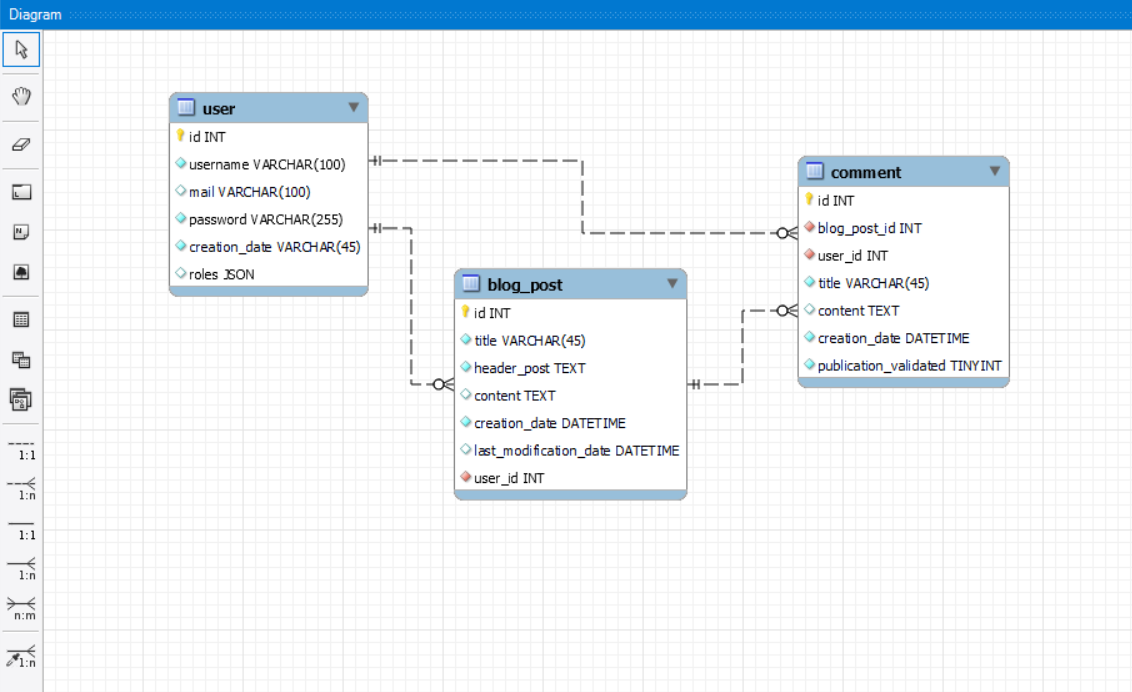
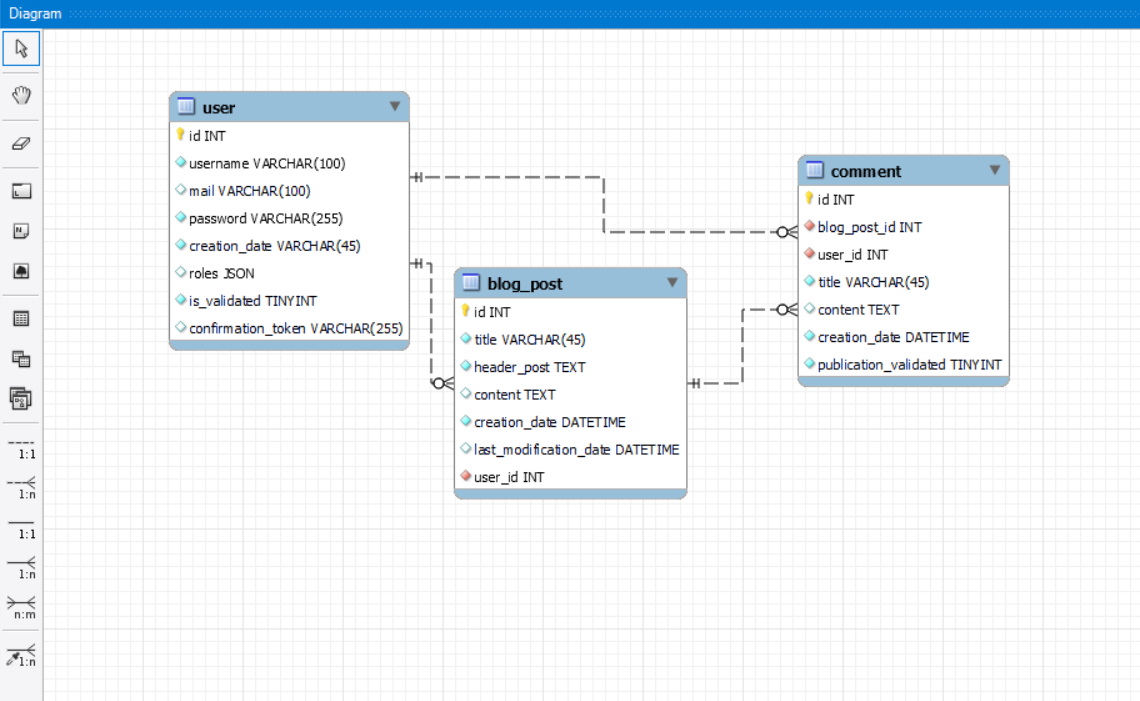
subscription is working

diff --git a/src/Controller/Authentification/AuthentificationController.php b/src/Controller/Authentification/AuthentificationController.php
@@ -2,6 +2,8 @@
 
 namespace Controller\Authentification;
 
+use App\Mailer\Mailer;
+use Exception;
 use Controller\Controller;
 use Model\Manager\User\UserManager;
 
@@ -11,14 +13,16 @@ class AuthentificationController extends Controller
     public function login()
     {
         $request = $this->getRequest();
+        // errors from otherPages
+        $flashError = $this->flashError($request);
         $userManager = $this->getDatabase()->getManager(UserManager::class);
 
         // If the user is already connected, we don't want him to go to the login page
-        if($request->getSession('auth')){
+        if ($request->getSession('auth')) {
             $user = $userManager->getUser($request->getSession('auth'));
             if (in_array("admin", $user->getRoles())) {
                 $this->redirect("admin");
-            }else{
+            } else {
                 $this->redirect("home");
             }
         }
@@ -29,23 +33,122 @@ class AuthentificationController extends Controller
             $username = $request->postTableData()['username'];
             $user = $userManager->getUserByUsername($username);
             if ($user !== false && $this->checkPassword($request->postTableData()['password'], $user->getPassword())) {
-                $request->setSession('auth', $user->getId());
-                $request->setSession('userRoles', $user->getRoles());
-                if (in_array("admin", $user->getRoles())) {
-                    $this->redirect("admin");
-                }else{
-                    $this->redirect("home");
+                if ($user->getIsValidated()) {
+                    $request->setSession('auth', $user->getId());
+                    $request->setSession('userRoles', $user->getRoles());
+                    if (in_array("admin", $user->getRoles())) {
+                        $this->redirect("admin");
+                    } else {
+                        $this->redirect("home");
+                    }
+                } else {
+                    $errors[] = "Vous devez valider votre mail";
                 }
             } else {
                 $errors[] = "Identifiant ou mot de passe incorrect";
             }
         }
 
-        return $this->render("/login.html.twig", ["errors" => $errors]);
+        return $this->render("/login.html.twig", ["errors" => $errors,"flashError"=>$flashError]);
+    }
+
+    public function subscription()
+    {
+        $request = $this->getRequest();
+        $userManager = $this->getDatabase()->getManager(UserManager::class);
+
+        $errors=[];
+        try {
+            if ($request->postTableData() && $this->isValidSubscriptionForm($request, $userManager)) {
+                $creationDate = date('Y-m-d H:i:s');
+                $mailer = new Mailer();
+                $alphabet = "0123456789azertyuiopqsdfghjklmwxcvbnAZERTYUIOPQSDFGHJKLMWXCVBN";
+                $token = substr(str_shuffle(str_repeat($alphabet, 12)), 0, 12);
+                $userManager->insertUser(
+                    [
+                        'username' => $request->postData('username'),
+                        'mail' => $request->postData('mail') ? $request->postData('mail') : "",
+                        'password' => password_hash($request->postData('password'), PASSWORD_BCRYPT, ["cost" => 12]),
+                        'roles' => !empty($request->postData('roles')) ? json_encode($request->postData('roles')) : json_encode(["user"]),
+                        'creationDate' => $creationDate,
+                        'confirmationToken' => $token
+                    ]
+                );
+                $message = (new \Swift_Message('Email pour valider votre compte'))
+                    ->setFrom([$_ENV['MAIL_USERNAME']])
+                    ->setTo([$request->postData('mail')])
+                    ->setBody('Pour valider votre compte, cliquez sur le lien suivant:'.$_SERVER['SERVER_NAME'].'/subscriptionValidation/'.$token);
+
+                // Send the message
+                $mailer->send($message);
+                $request->setSession('flashMessage', "Un mail de confirmation vous a été envoyé");
+                $this->redirect('subscription_get');
+            }
+        } catch (Exception $e) {
+            $errors[] = $e->getMessage();
+        }
+
+        return $this->render("/subscription.html.twig", ["errors"=>$errors]);
+    }
+
+    public function subscriptionValidation($token)
+    {
+        $request = $this->getRequest();
+        $userManager = $this->getDatabase()->getManager(UserManager::class);
+        $user = $userManager->getUserByConfirmationToken($token);
+        if($user){
+            $userManager->updateUser(
+                [
+                    'username' => $user->getUsername(),
+                    'mail' => $user->getMail(),
+                    'roles' => $user->getRoles(),
+                    'confirmationToken' => null,
+                    'isValidated' => 1
+                ],
+                $user->getId()
+            );
+            $request->setSession('flashMessage', "Inscription validée, vous pouvez vous connecter");
+        }else{
+            $request->setSession('flashError', "Le token envoyé n'est pas valide");
+        }
+        $this->redirect("login");
     }
 
     public function checkPassword($password, $databasePassword)
     {
         return password_verify($password, $databasePassword);
+    }
+
+    public function isValidSubscriptionForm($request, $userManager): bool
+    {
+        $returnValue = true;
+        $mail = $request->postData('mail');
+        $password = $request->postData('password');
+        $passwordValidation = $request->postData('passwordValidation');
+        $username = $request->postData('username');
+
+        if (!$username || strlen($username) < 4) {
+            throw new Exception('Pseudo trop court');
+            $returnValue = false;
+        }
+
+        $user = $userManager->getUserByUsername($username);
+        if ($user) {
+            throw new Exception("L'utilisateur existe déjà, veuillez choisir un autre identifiant");
+            $returnValue = false;
+        }
+        if (!$password || strlen($password) < 4) {
+            throw new Exception('Mot de passe trop court');
+            $returnValue = false;
+        }
+        if ($password !== $passwordValidation) {
+            throw new Exception('Les deux mots de passe ne sont pas identiques');
+            $returnValue = false;
+        }
+        if ($mail && !filter_var($mail, FILTER_VALIDATE_EMAIL)) {
+            throw new Exception('Votre mail ne convient pas');
+            $returnValue = false;
+        }
+        return $returnValue;
     }
 }

diff --git a/src/Model/Manager/User/UserManager.php b/src/Model/Manager/User/UserManager.php
@@ -11,7 +11,7 @@ class UserManager extends Manager
     public function getUserByUsername(string $username)
     {
         return $this->queryFetch(
-            "SELECT id, username, mail, password, roles, creation_date as 'creationDate' FROM user WHERE username='" . $username . "'",
+            "SELECT id, username, mail, password, roles, creation_date as 'creationDate', is_validated as 'isValidated' FROM user WHERE username='" . $username . "'",
             User::class
         );
     }
@@ -19,7 +19,7 @@ class UserManager extends Manager
     public function getUsersByUsername(string $username)
     {
         return $this->queryFetchAll(
-            "SELECT id, username, mail, password, roles, creation_date as 'creationDate' FROM user WHERE username='" . $username . "'",
+            "SELECT id, username, mail, password, roles, creation_date as 'creationDate', is_validated as 'isValidated' FROM user WHERE username='" . $username . "'",
             User::class
         );
     }
@@ -27,7 +27,7 @@ class UserManager extends Manager
     public function getUsers()
     {
         return $this->queryFetchAll(
-            "SELECT id, username, mail, password, roles, creation_date as 'creationDate' FROM user ORDER BY id DESC",
+            "SELECT id, username, mail, password, roles, creation_date as 'creationDate', is_validated as 'isValidated' FROM user ORDER BY id DESC",
             User::class
         );
     }
@@ -35,7 +35,15 @@ class UserManager extends Manager
     public function getUser($id)
     {
         return $this->queryFetch(
-            "SELECT id, username, mail, password, roles, creation_date as 'creationDate' FROM user WHERE id=$id",
+            "SELECT id, username, mail, password, roles, creation_date as 'creationDate', is_validated as 'isValidated' FROM user WHERE id=$id",
+            User::class
+        );
+    }
+
+    public function getUserByConfirmationToken($token)
+    {
+        return $this->queryFetch(
+            "SELECT id, username, confirmation_token as 'confirmationToken' FROM user WHERE confirmation_token=$token",
             User::class
         );
     }
@@ -43,7 +51,7 @@ class UserManager extends Manager
     public function insertUser(array $params)
     {
         $this->prepare(
-            "INSERT INTO user (username, mail, password, roles, creation_date) VALUES (:username,:mail,:password, :roles, :creationDate)",
+            "INSERT INTO user (username, mail, password, roles, creation_date, is_validated, confirmation_token) VALUES (:username,:mail,:password, :roles, :creationDate, 0, :confirmationToken)",
             User::class,
             $params
         );
@@ -52,7 +60,7 @@ class UserManager extends Manager
     public function updateUser(array $params, $id)
     {
         $this->prepare(
-            "UPDATE user SET username = :username, mail = :mail, roles = :roles WHERE id = $id",
+            "UPDATE user SET username = :username, mail = :mail, roles = :roles, confirmation_token = :confirmationToken, is_validated = :isValidated WHERE id = $id",
             BlogPost::class,
             $params
         );

diff --git a/src/Controller/Admin/AdminUserController.php b/src/Controller/Admin/AdminUserController.php
@@ -36,7 +36,8 @@ class AdminUserController extends Controller
                         'mail' => $request->postData('mail') ? $request->postData('mail') : "",
                         'password' => password_hash($request->postData('password'), PASSWORD_BCRYPT, ["cost" => 12]),
                         'roles' => !empty($request->postData('roles')) ? json_encode($request->postData('roles')) : json_encode(["user"]),
-                        'creationDate' => $creationDate
+                        'creationDate' => $creationDate,
+                        'confirmationToken' => null
                     ]
                 );
                 $request->setSession('flashMessage', "Utilisateur ajouté");
@@ -63,7 +64,9 @@ class AdminUserController extends Controller
                     [
                         'username' => $request->postData('username'),
                         'mail' => $request->postData('mail') ? $request->postData('mail') : "",
-                        'roles' => json_encode($request->postData('roles'))
+                        'roles' => json_encode($request->postData('roles')),
+                        'confirmationToken' => $user->getConfirmationToken(),
+                        'isValidated' => $request->postData('isValidated')
                     ],
                     $id
                 );

diff --git a/app/routes.php b/app/routes.php
@@ -3,6 +3,9 @@
 // LOGIN
 $router->get('/login', 'AuthentificationController#login', 'login');
 $router->post('/login', 'AuthentificationController#login', 'login_post');
+$router->get('/subscription', 'AuthentificationController#subscription', 'subscription_get');
+$router->post('/subscription', 'AuthentificationController#subscription', 'subscription_post');
+$router->get('/subscriptionValidation/{token}', 'AuthentificationController#subscriptionValidation', 'subscriptionValidation_get');
 $router->get('/logout', function () use ($httpRequest){
     $httpRequest->unsetSession('auth');
     session_destroy();

diff --git a/src/Model/Entity/User/User.php b/src/Model/Entity/User/User.php
@@ -11,6 +11,8 @@ class User
     private $password;
     private $creationDate;
     private $roles;
+    private $isValidated;
+    private $confirmationToken;
 
     public function __construct()
     {
@@ -42,5 +44,13 @@ class User
     public function getRoles()
     {
         return $this->roles;
+    }
+    public function getIsValidated()
+    {
+        return $this->isValidated;
+    }
+    public function getConfirmationToken()
+    {
+        return $this->confirmationToken;
     }
 }

diff --git a/src/Controller/BlogPost/BlogPostController.php b/src/Controller/BlogPost/BlogPostController.php
@@ -66,8 +66,6 @@ class BlogPostController extends Controller
             $errors[] = $e->getMessage();
         }
 
-        dump($request->getSession('userRoles'));
-
         return $this->render(
             "blogPost/show.html.twig",
             [
